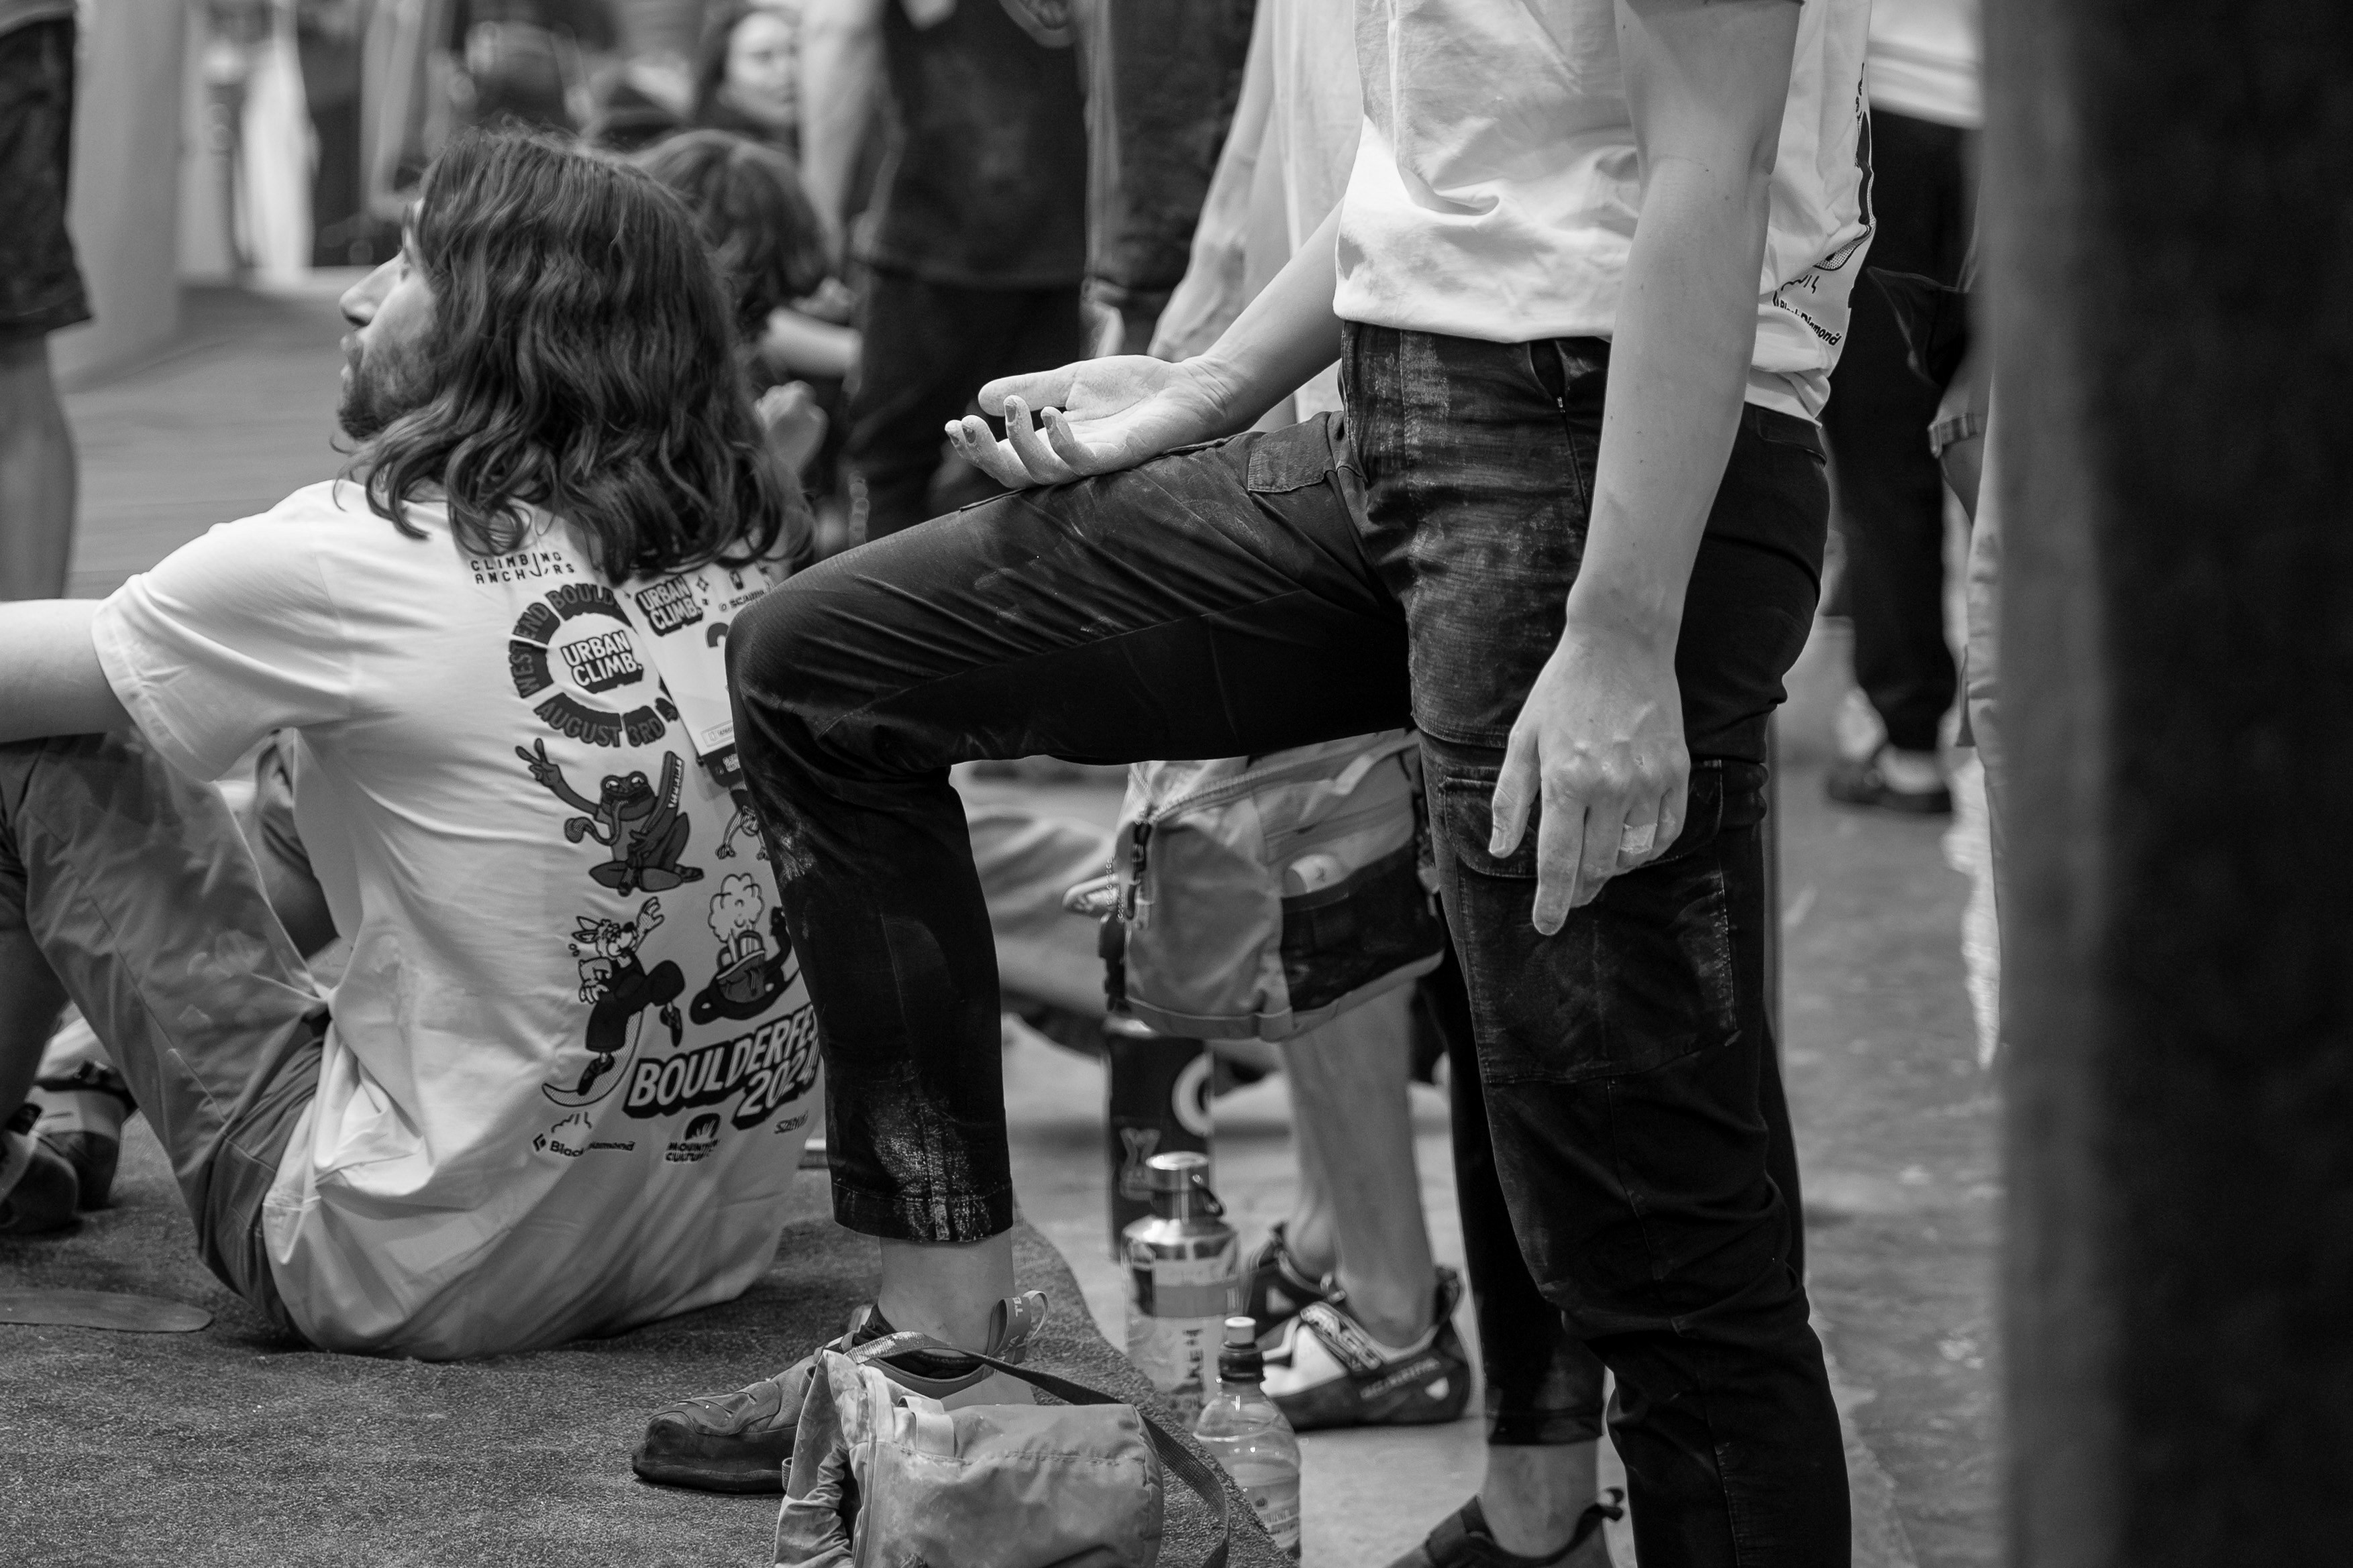
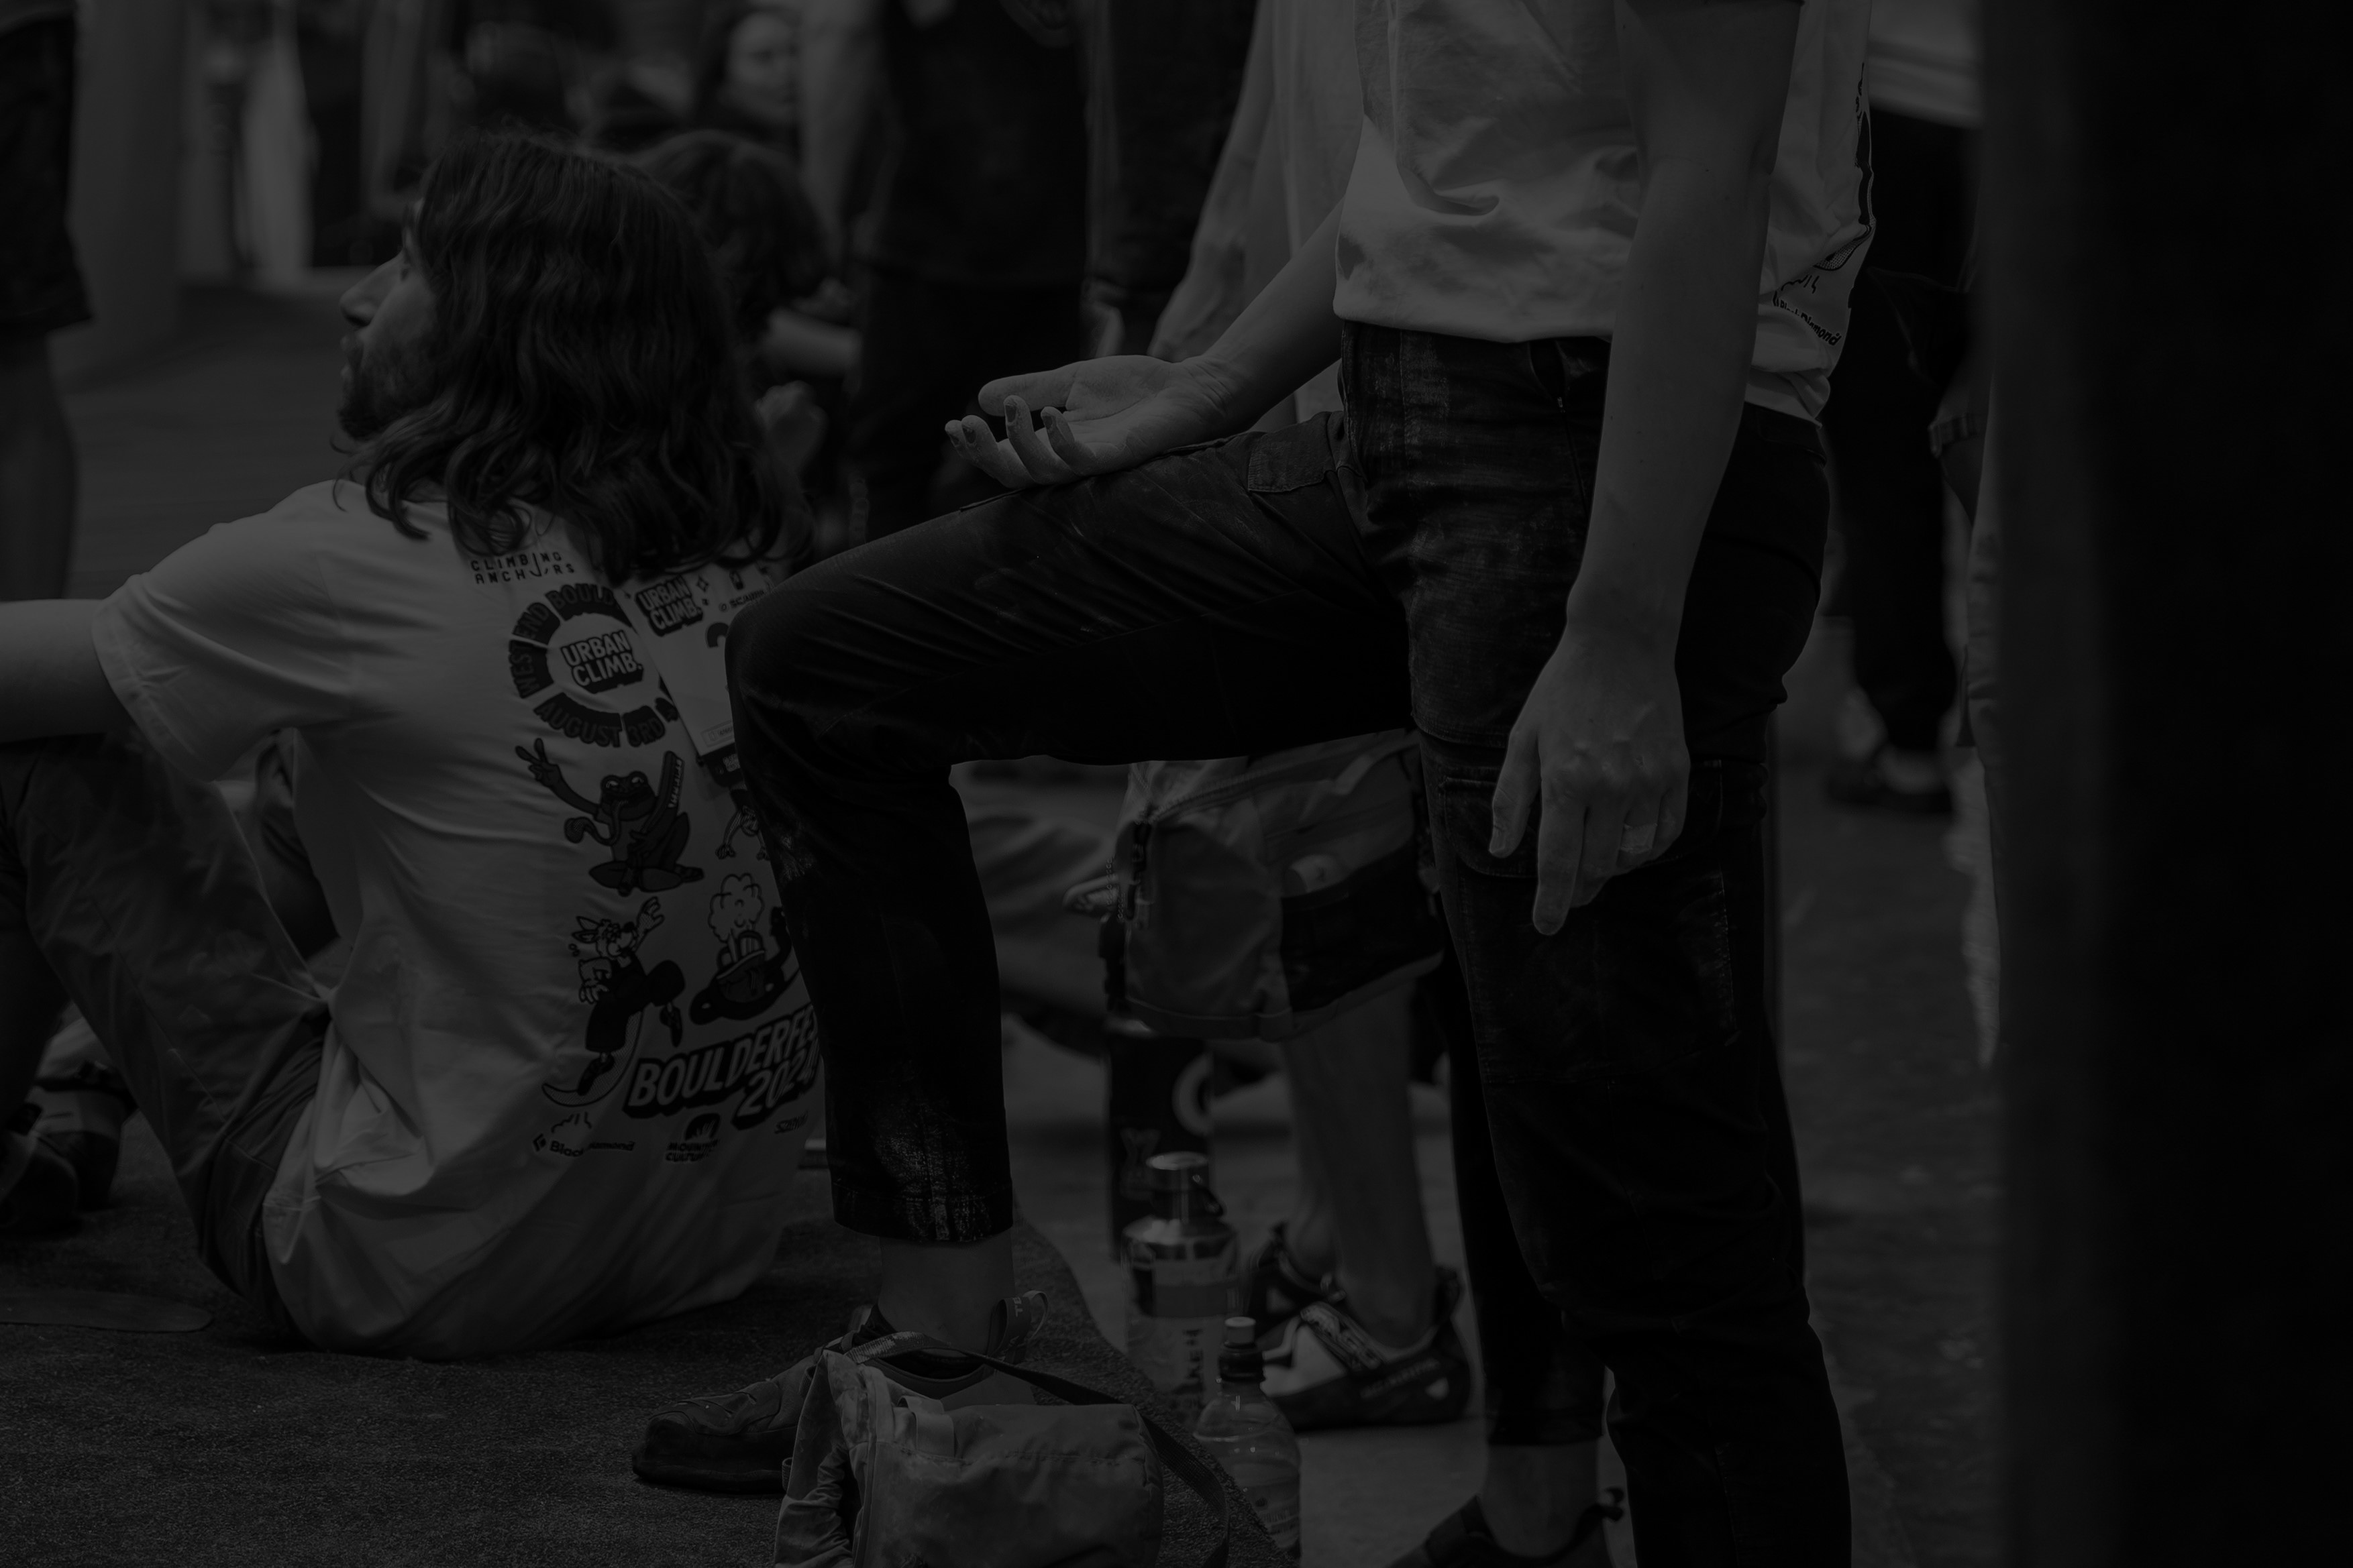
Made background images darker, completed About Page, added background image to climbs page

diff --git a/client/src/pages/Climbs.css b/client/src/pages/Climbs.css
@@ -5,6 +5,10 @@
     height: 100vh;
     margin: 0;
     background-color: #F4F4F4;
+    background-image: url('/boulder-wall.jpg');
+    background-size: cover;
+    background-position: center;
+    background-repeat: no-repeat;
 }
 
 .climbs-main {
@@ -28,7 +32,7 @@
 }
 
 .climbs-header h2 {
-    color: #000000;
+    color: white;
     font-size: 30px;
     padding-right: 1rem;
 }
@@ -39,6 +43,7 @@
 }
 
 .tags-container label {
+    color: white;
     font-size: 18px;
     font-weight: bold;
 }
@@ -84,7 +89,7 @@
 }
 
 .black-tag-bar {
-    background-color: #212121;
+    background-color: #2b2b2b;
     width: 5rem;
     height: 1rem;
     margin-left: 0.5rem;
@@ -109,6 +114,11 @@
     padding: 0.4rem;
 }
 
+.climbs-controls button:hover {
+  transform: translateY(-1px);
+  box-shadow: 0px 4px 4px rgba(0, 0, 0, 0.2);
+}
+
 .climbs-grid {
     grid-area: climbs;
     display: grid;
@@ -118,7 +128,7 @@
     overflow-y: scroll;
     
     gap: 1rem;
-    background-color: #ffffff;
+    background-color: #ffffff2f;
     border-radius: 10px;
     box-shadow: 0 2px 4px hsla(0, 0%, 0%, 0.3);
 }
@@ -133,7 +143,7 @@
 }
 
 .climbs-grid::-webkit-scrollbar-thumb {
-    background-color: #000000;
+    background-color: #00000079;
     border-radius: 15px;
 }
 
@@ -143,4 +153,8 @@
     justify-self: center;
     align-items: center;
     font-size: 18px;
+}
+
+.message {
+    color: white;
 }

diff --git a/client/src/pages/About.jsx b/client/src/pages/About.jsx
@@ -16,12 +16,15 @@ export default function About() {
 
                         <div className='team-container'>
                             <h2>Meet the Team</h2>
-                            <h3>Quentin Chen</h3>
-                            <p className='about-text'>
-                                Creator of Betabase and a Linguistics & Computer Science Major at UCLA. Started climbing in 2024 and fell in love
-                                with the sport through Hanger 18 and Sender One in Orange County, California.
-                            </p>
-                            <p>Founder | Developer | Designer</p>
+                            <div className='team-grid'>
+                                <img src='/qc2.JPEG' className='founder-picture'></img>
+                                <h3>Quentin Chen</h3>
+                                <p className='about-text'>
+                                    Creator of Betabase and a Linguistics & Computer Science Major at UCLA. Started climbing in 2024 and fell in love
+                                    with the sport through Hanger 18 and Sender One in Orange County, California.
+                                </p>
+                                <p>Founder | Developer | Designer</p>
+                            </div>
                         </div>
 
                         <div className='tools-container'>

diff --git a/client/src/pages/About.css b/client/src/pages/About.css
@@ -5,7 +5,8 @@
     height: 100vh;
     margin: 0;
     background-color: #F4F4F4;
-    background-image: url('/boulder-wall.jpg');
+    background-image: linear-gradient(to bottom, rgba(0, 0, 0, 0) 70%, rgb(0, 0, 0)),
+    url('/bw-1.jpg');
     background-size: cover;
     background-position: center;
     background-repeat: no-repeat;
@@ -13,11 +14,54 @@
 }
 
 .about-container {
+    color: white;
     display: flex;
     flex-direction: column;
     width: 50%;
+}
+
+.mission-container {
+    margin-bottom: 4rem;
+}
+
+.team-container {
+    margin-bottom: 4rem;
+}
+
+.tools-container {
+    margin-bottom: 4rem;
+}
+
+.about-container h2 {
+    position: relative;
+    font-size: 30px;
+    font-family: "Zen Dots", sans-serif;
+}
+
+.about-container h2::after {
+    content: "";
+    position: absolute;
+    bottom: 0;
+    left: 0;
+    width: 100%;
+    height: 2px;
+    background-color: #FFC60B;
+    border-radius: 2px;
+}
+
+.team-grid {
+    display: grid;
+    grid-template-areas: 
+        "picture name"
+        "picture bio"
+        "picture positions";
+    grid-template-columns: 1fr 4fr;
+    align-items: center;
+    gap: 0 2rem;
+}
+
+.founder-picture {
+    grid-area: picture;
+    height: 200px;
     border-radius: 15px;
-    padding: 2rem;
-    background-color: rgb(255, 255, 255);
-    box-shadow: 0 2px 4px hsla(0, 0%, 0%, 0.3);
 }

diff --git a/client/src/pages/Home.css b/client/src/pages/Home.css
@@ -5,7 +5,7 @@
     height: 100vh;
     margin: 0;
     background-color: #F4F4F4;
-    background-image: url('/grey-slab.jpg');
+    background-image: url('/grey-slab2.jpg');
     background-size: cover;
     background-position: center;
     background-repeat: no-repeat;
@@ -33,8 +33,9 @@
     font-family: "Zen Dots", sans-serif;
     font-size: 40px;
     font-weight: bold;
-    color: rgb(255, 255, 255);
-    text-shadow: 2px 2px 8px rgba(0, 0, 0, 0.9);
+    color: #ffffff;
+    text-shadow: 3px 3px 6px #000000;
+    line-height: 1.4;
 }
 
 .start-buttons {
@@ -68,17 +69,23 @@
     padding: 0.4rem;
 }
 
+.btn-primary:hover,
+.btn-secondary:hover {
+  transform: translateY(-1px);
+  box-shadow: 0px 4px 8px rgba(0, 0, 0, 0.4);
+}
+
 .features-section {
     background-color: rgba(0, 0, 0, 0.8);
     text-align: center;
-    padding: 30px 20px;
+    padding: 20px 0px;
     text-shadow: 2px 2px 8px rgba(0, 0, 0, 0.7);
 }
 
 .features-container {
     display: flex;
     justify-content: center;
-    gap: 60px;
+    gap: 50px;
 }
 
 .feature {

diff --git a/client/src/pages/Home.jsx b/client/src/pages/Home.jsx
@@ -8,9 +8,11 @@ export default function Home() {
         <div className='home-page'>
             <div className='main-content'>
                 <section className='hero'>
-                    <p className='hero-text'>Your stats.</p>
-                    <p className='hero-text'>Your beta.</p>
-                    <p className='hero-text'>Your journey.</p>
+                    <p className='hero-text'>
+                        Your stats.<br></br>
+                        Your beta.<br></br>
+                        Your journey.
+                    </p>
                     <div className='start-buttons'>
                         <button className='btn-primary' onClick={() => navigate('/climbs')}>Get Started</button>
                         <button className='btn-secondary' onClick={() => navigate('/about')}>Learn More</button>

diff --git a/client/src/components/SidebarFilter.css b/client/src/components/SidebarFilter.css
@@ -3,7 +3,8 @@
     grid-area: filter;
     flex-direction: column;
     width: 240px;
-    background-color: #ffffff;
+    color: white;
+    background-color: #ffffff2f;
     border-radius: 10px;
     box-shadow: 0 2px 4px hsla(0, 0%, 0%, 0.3);
     font-family: 'inter', sans-serif;
@@ -92,5 +93,9 @@ input::placeholder{
     background-color: #FFC60B;
     border-radius: 5px;
     border-color: #FFC60B;
-    box-shadow: 0 0 4px rgba(0, 0, 0, 0.6);
+}
+
+.filter-button:hover {
+  transform: translateY(-1px);
+  box-shadow: 0px 4px 4px rgba(0, 0, 0, 0.2);
 }

diff --git a/client/src/pages/Climbs.jsx b/client/src/pages/Climbs.jsx
@@ -28,7 +28,7 @@ export default function Climbs({ climbs, setClimbs }) {
                         <div className='black-tag-bar' />
                     </div>
                     <div className='climbs-controls'>
-                        <button onClick={() => navigate('/add-climb')}>Add Climb</button>
+                        <button onClick={() => navigate('/add-climb')}>+</button>
                         <button>Sort</button>
                     </div>
                 </div>

diff --git a/client/src/components/ClimbCard.css b/client/src/components/ClimbCard.css
@@ -28,7 +28,7 @@
 }
 
 .v10-climb-card {
-    background-color: #212121;
+    background-color: #2b2b2b;
 }
 
 .route-image {
@@ -50,5 +50,9 @@
     font-size: 18px;
     border-radius: 5px;
     border-color: #FFC60B;
-    box-shadow: 0 2px 4px hsla(0, 0%, 0%, 0.2);
+}
+
+.delete-button:hover {
+  transform: translateY(-1px);
+  box-shadow: 0px 4px 4px rgba(0, 0, 0, 0.2);
 }

diff --git a/client/src/pages/Register.css b/client/src/pages/Register.css
@@ -14,7 +14,7 @@
 
 .register-page input{
     color: black;
-    background-color: white;
+    background-color: #ffffff;
     border-radius: 3px;
     box-shadow: 0 2px 4px hsla(0, 0%, 0%, 0.4);
 }

diff --git a/client/src/index.css b/client/src/index.css
@@ -5,7 +5,7 @@
 
   color-scheme: light dark;
   color: #000000de;
-  background-color: #f4f4f4;
+  background-color: #000000;
 
   font-synthesis: none;
   text-rendering: optimizeLegibility;

diff --git a/client/src/components/Navbar.css b/client/src/components/Navbar.css
@@ -64,6 +64,6 @@ ul li {
 
 .betabase-logo {
     padding-left: 10px;
-    height: 45px;
+    height: 40px;
     margin-bottom: 5px;
 }
